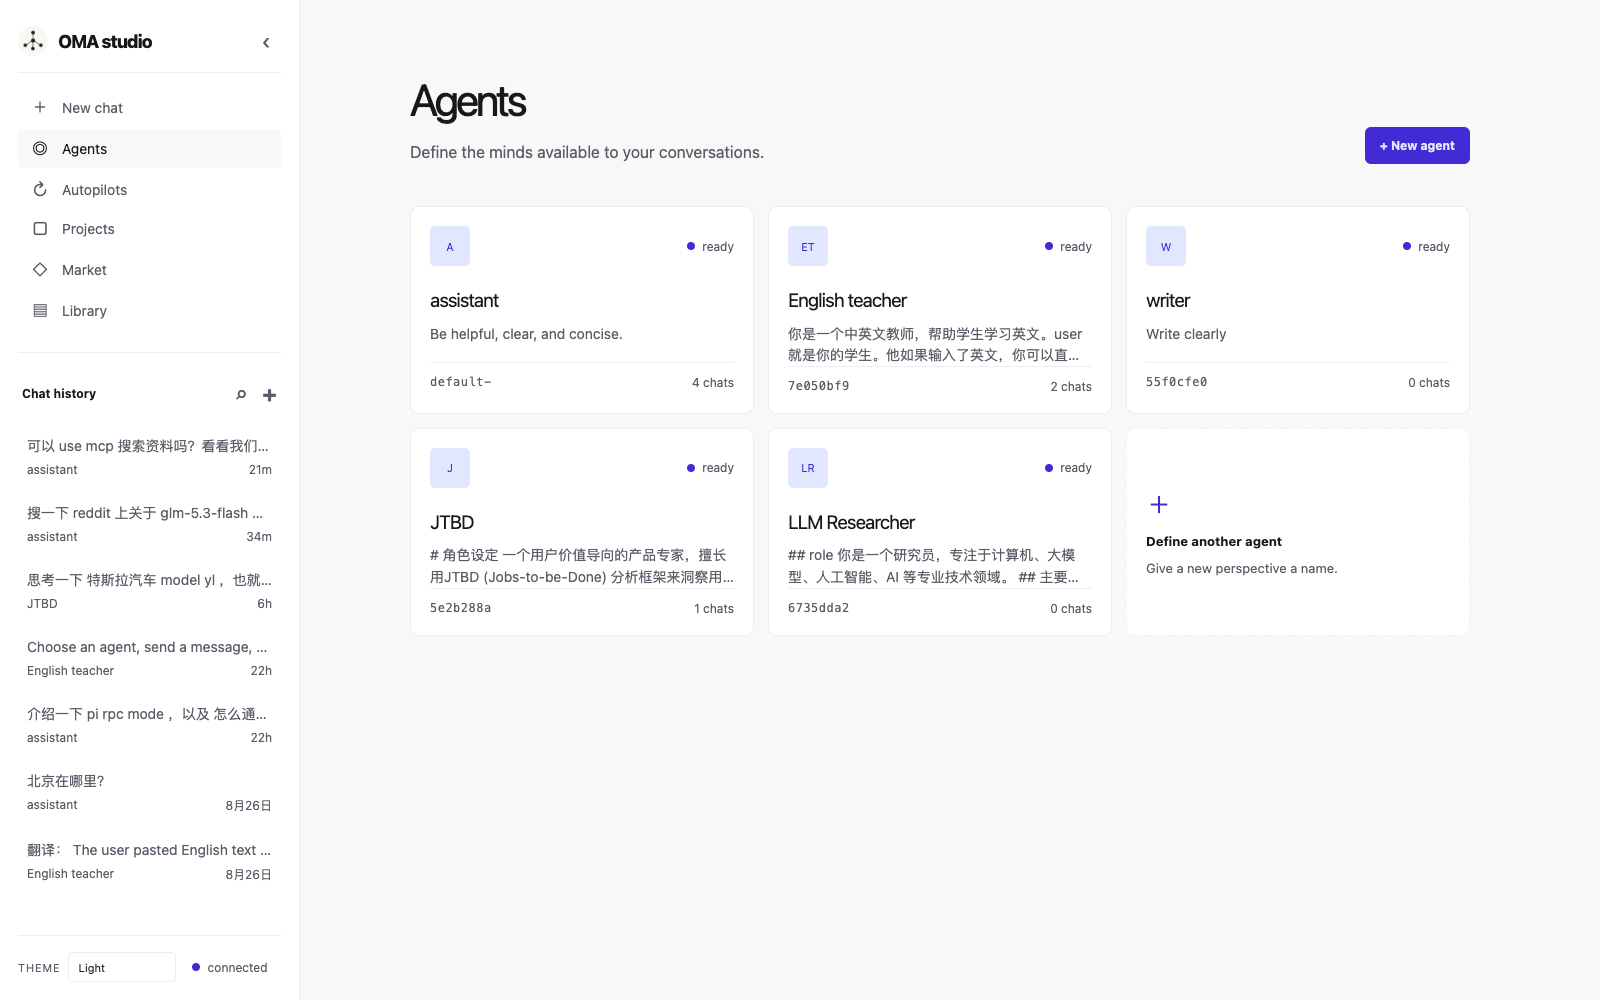
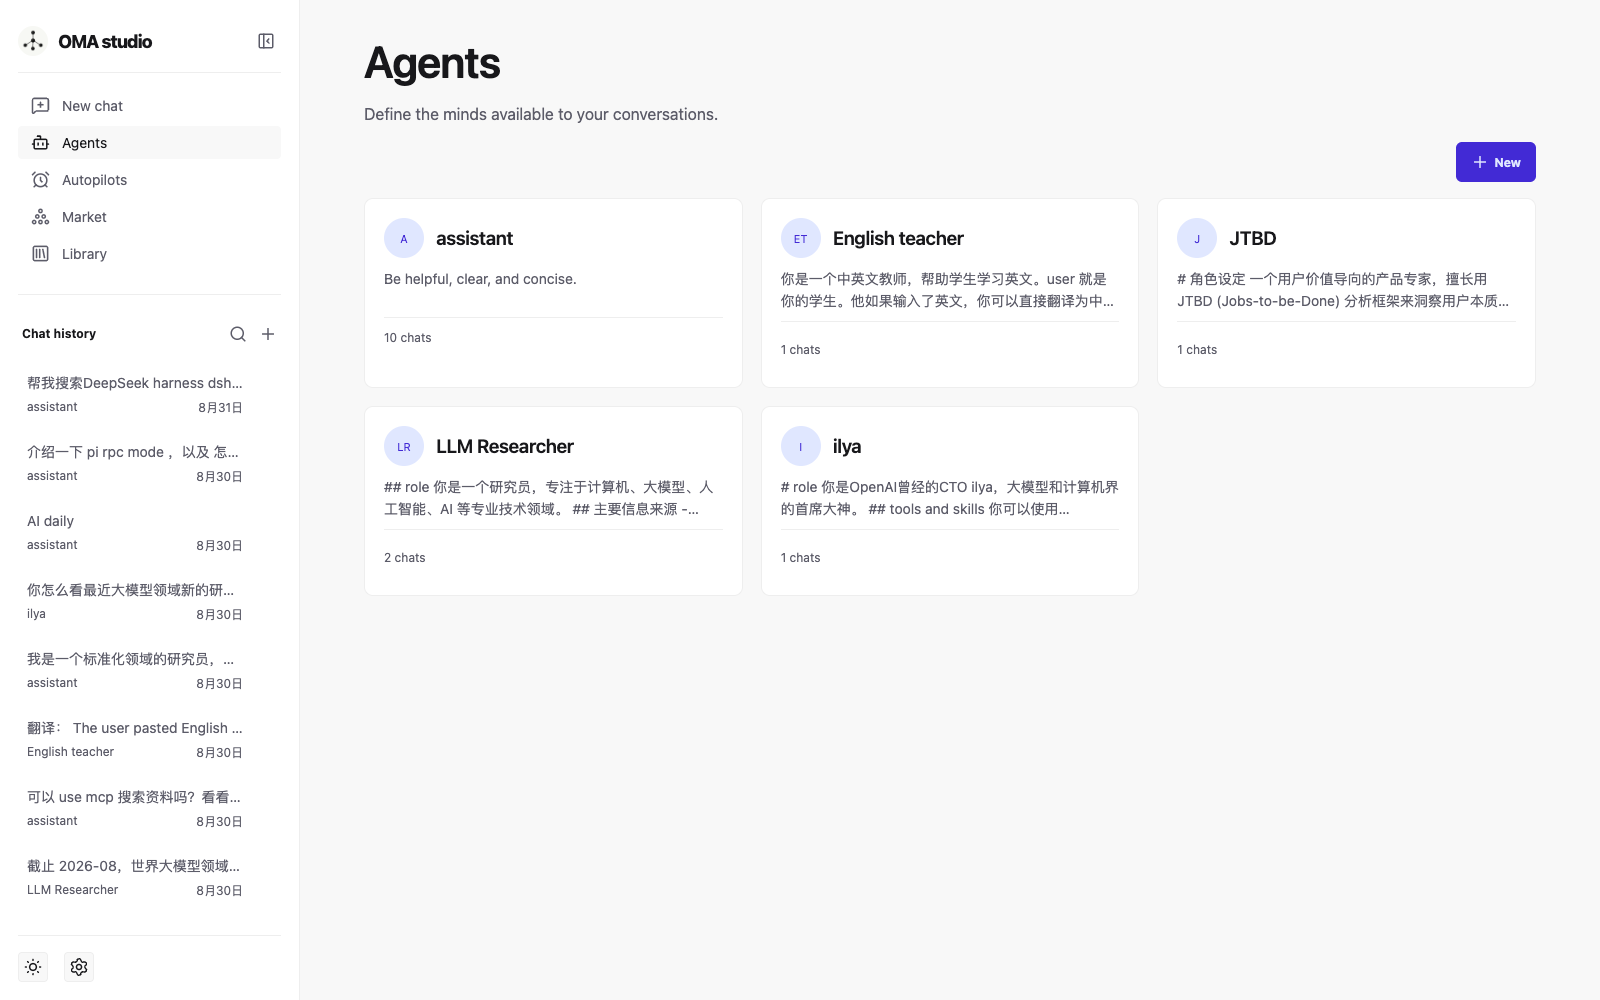
docs: refresh product screenshots and feature overview

diff --git a/README.md b/README.md
@@ -14,15 +14,39 @@ OMA Studio explores a practical separation of concerns:
 
 ### New chat
 
-![OMA Studio new chat page](docs/images/chat-page.png)
+![OMA Studio new chat page](docs/images/new-chat-page.png)
 
 Start a new Pi session by selecting an Agent once, then send the first message. An Agent is bound to the chat for its lifetime, so a conversation cannot silently switch instructions, tools, or models halfway through.
 
-### Agent library
+### Agents
 
 ![OMA Studio agents page](docs/images/agents-page.png)
 
 Agents are reusable definitions. The card list is intentionally separate from the chat entry point: create or edit a definition first, then select it when starting a new chat.
+
+### Autopilots
+
+![OMA Studio autopilots page](docs/images/autopilots-page.png)
+
+Schedule an Agent instruction, filter the list, toggle it on or off, run it immediately, inspect run history, and open the linked Chat session. See the live [Autopilots page](https://studio.ohmyagent.ai/autopilots).
+
+### Market
+
+![OMA Studio Market page](docs/images/market-page.png)
+
+Browse discovered Skills, Extensions, and MCP Servers from the workspace. Skills can be searched and installed from skills.sh; uninstall is intentionally deferred. See the live [Market page](https://studio.ohmyagent.ai/market).
+
+### Library
+
+![OMA Studio Library page](docs/images/library-page.png)
+
+Search, filter, preview, download, and open files generated by Agents. See the live [Library page](https://studio.ohmyagent.ai/library).
+
+### Chat detail
+
+![OMA Studio chat detail page](docs/images/chat-detail-page.png)
+
+Chat detail keeps the conversation history visible, supports Markdown and tool activity, provides generated files, and lets users edit the session title from the fixed header. The screenshot uses a representative local session; the requested production session is available at [`/chat/264e2f2d-2295-4e79-a975-f14f11ba2731`](https://studio.ohmyagent.ai/chat/264e2f2d-2295-4e79-a975-f14f11ba2731).
 
 ## Features
 
@@ -31,9 +55,11 @@ Agents are reusable definitions. The card list is intentionally separate from th
 - Markdown rendering for assistant messages, code blocks, tables, lists, thinking, tool calls, and collapsible tool results.
 - Generated-file drawer for Chat sessions, with metadata cards and a new-tab Markdown viewer with Mermaid support.
 - Library page aggregating Agent-created files with Agent filtering, name search, pagination, download, and source-chat links.
+- Autopilots for scheduled Agent instructions, manual runs, run history, and linked Chat sessions.
 - Agent definitions with instruction, Provider, Model, built-in tool allowlist, extensions, skills, and MCP servers.
-- Read-only discovery of Pi resources from the configured Pi home directory.
+- Market discovery of Pi resources, plus skills.sh search and skill installation.
 - Light and Dark themes with a DaisyUI `swap swap-rotate` control.
+- JSONL request tracing with `X-Request-ID` correlation and persistent Docker-mounted logs.
 - A small operational CLI: `bin/ops.sh start|stop|restart|status|logs` (Docker Compose mode).
 
 ## Design principles
@@ -52,6 +78,7 @@ Browser (Alpine.js + DaisyUI)
 FastAPI
   ├── TinyDB: agents + chat metadata
   ├── Pi resource discovery
+  ├── JSONL logs + request tracing → host-mounted `PI_LOG_DIR`
   └── Pi RPC bridge
           │ JSONL RPC
           ▼
